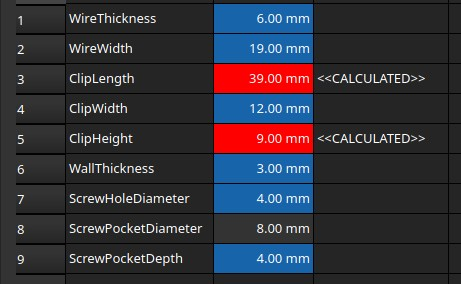
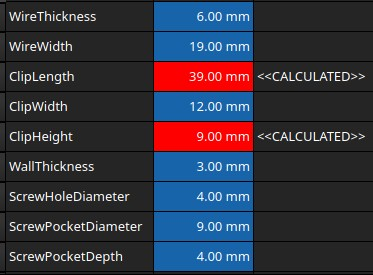
Widening screw pocket

Changed region(s): [[0.0, 0.0, 1.0, 1.0]]

diff --git a/3D-print/FlatWireClip/README.md b/3D-print/FlatWireClip/README.md
@@ -1,6 +1,10 @@
 ## Flat electric wire clips
 
-I have 8/3, 10/3 and 12/3 gauge, flat UF-B (underground feeder and branch-circuit) running on my property to feed all kinds of electrical devices like mini-splits, bandsaw and woodmill.  Those wires run against walls here and there and need to get fastened.  I didn't find good, strong fasteners that were big enough for these wires, so I decided to create my own fastener.  
+I have 8/3, 10/3 and 12/3 gauge, flat UF-B (underground feeder and branch-circuit) running on my property to feed all kinds of electrical devices like mini-splits, bandsaw and woodmill.  Those wires run against walls here and there and need to get fastened.  I didn't find good, strong fasteners that were big enough for these wires, so I decided to create my own paramterized fastener.  
+
+## Measurements:
+### 10-3 UF-B wire:
+![Solid model](./documentation/10-3_params.jpg)
 
 
 ## The connector:
